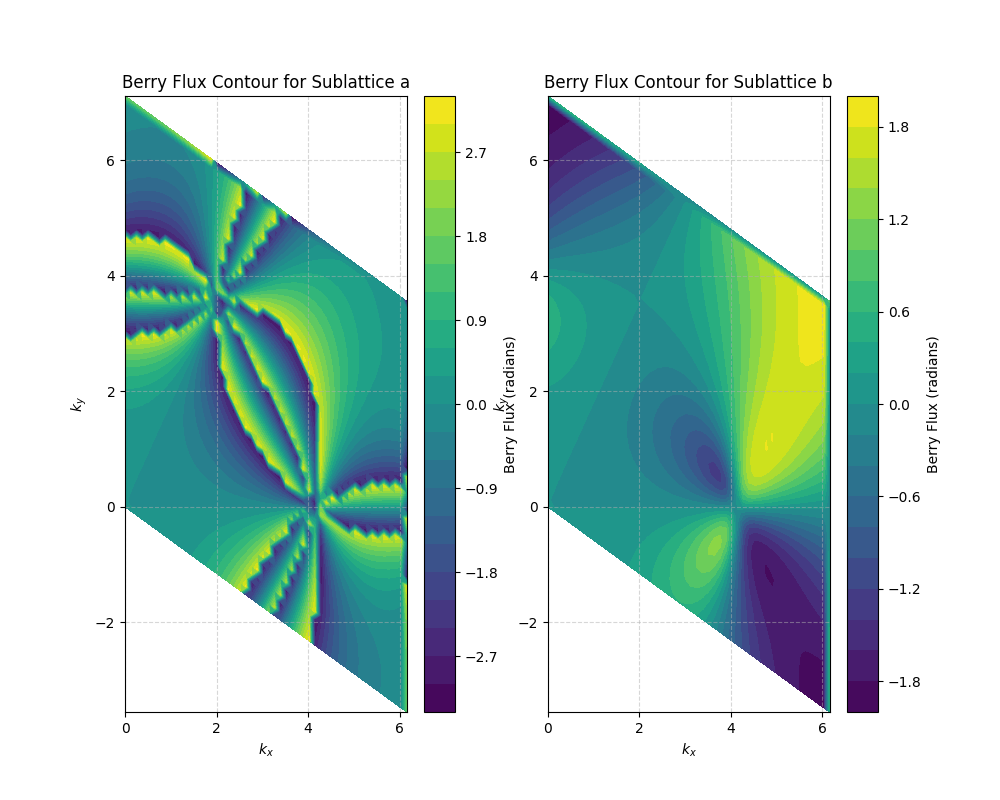
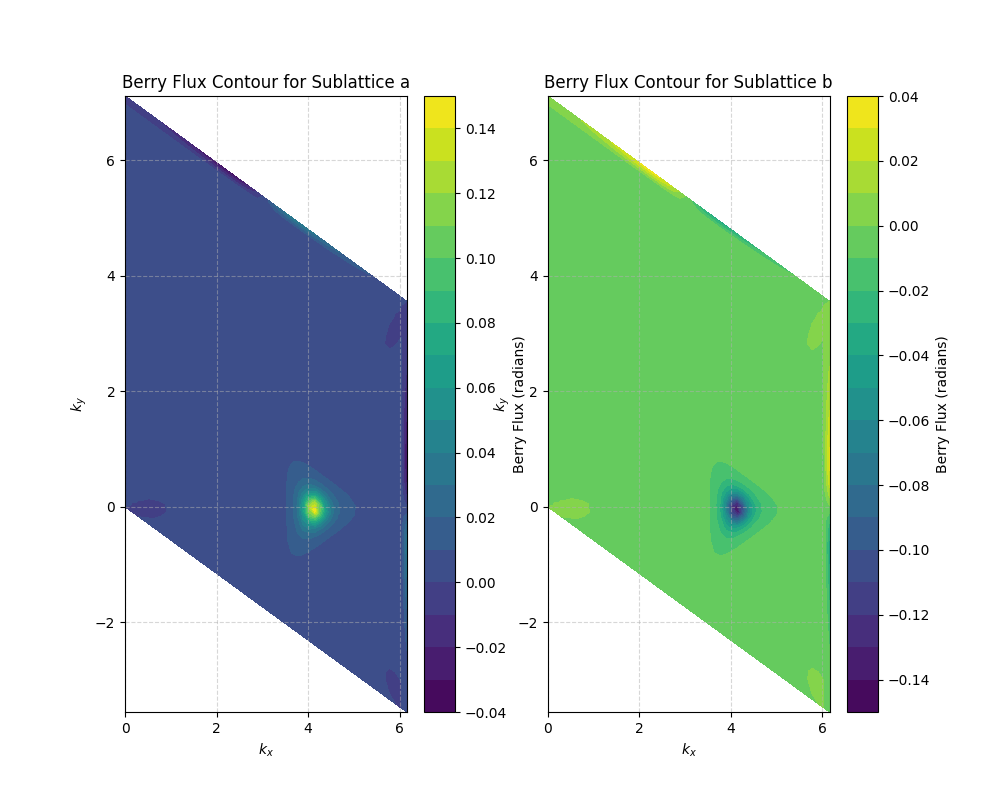
Started Edge Modes

diff --git a/lattice.py b/lattice.py
@@ -49,7 +49,10 @@ class Lattice():
 
         self.periodic = periodic
         if len(periodic) == 0:
-            self.periodic = False
+            if self.dims > 0:
+                self.periodic = [True for i in range(self.dims)]
+            else:
+                self.periodic = True
 
         self.matrix_dim = len(self.labels)
 
@@ -238,31 +241,41 @@ class Lattice():
         pos = []
         if self.dims > 1:
             for dim in range(self.dims):
-                pos.append((label[0][dim] + vector[dim] - 1) % self.Nshape[dim] + 1)
+                if self.periodic[dim] or label[0][dim] + vector[dim] <= self.Nshape[dim]:
+                    pos.append((label[0][dim] + vector[dim] - 1) % self.Nshape[dim] + 1)
         else:
-            pos = (label[0] + vector[0] - 1) % self.Nshape + 1
+            if self.periodic or label[0] + vector <= self.Nshape:
+                pos = (label[0] + vector[0] - 1) % self.Nshape + 1
 
         site = chr((ord(label[1]) - ord("a") + vector[-1]) % self.sites + ord("a"))
 
+        if len(pos) < self.dims: # No site at vector
+            return (-1,), False
+
         if self.dims > 1:
-            return (tuple(pos), site)
+            return (tuple(pos), site), True
         else:
-            return (pos, site)
+            return (pos, site), True
     
     def getMomentumNeighbor(self, mlabel, vector):
         mom = []
         if self.dims > 1:
             for dim in range(self.dims):
-                mom.append((mlabel[0][dim] + vector[dim]) % self.Nshape[dim])
+                if self.periodic[dim] or mlabel[0][dim] + vector[dim] < self.Nshape[dim]:
+                    mom.append((mlabel[0][dim] + vector[dim]) % self.Nshape[dim])
         else:
-            mom = (mlabel[0] + vector[0]) % self.Nshape
+            if self.periodic or mlabel[0] + vector < self.Nshape:
+                mom = (mlabel[0] + vector[0]) % self.Nshape
 
         site = chr((ord(mlabel[1]) - ord("a") + vector[-1]) % self.sites + ord("a"))
 
+        if len(mom) < self.dims: # No site at vector
+            return (-1,), False
+
         if self.dims > 1:
-            return (tuple(mom), site)
+            return (tuple(mom), site), True
         else:
-            return (mom, site)
+            return (mom, site), True
 
     def GetBounds(self):
         if self.dims > 1:
@@ -351,21 +364,27 @@ class Lattice():
                 for dist_site in range(len(self.site_coordination)): # Loop nearest to farthest sites asked for
                     vector_list = site_vector_list[dist_site] # Get list of vectors at that distance
                     for vector in vector_list: # Loop through those vectors
-                        label2 = self.getNeighbor(label1, vector) # Get label of site after moving vector
+                        label2, exists = self.getNeighbor(label1, vector) # Get label of site after moving vector
+                        if not exists:
+                            continue
                         j = self.LabelToIndex(label2)
                         
                         H[i, j] = self.site_coordination[dist_site]
             else:
                 vector_list = site_vector_list[0] # Get list of vectors at that distance
                 for vector in vector_list: # Loop through those vectors
-                    label2 = self.getNeighbor(label1, vector) # Get label of site after moving vector
+                    label2, exists = self.getNeighbor(label1, vector) # Get label of site after moving vector
+                    if not exists:
+                        continue
                     j = self.LabelToIndex(label2)
                     
                     H[i, j] = self.site_coordination
             
             # Special Hops
             for hop in self.special_hops:
-                label2 = self.getNeighbor(label1, hop[0]) # Get label of site after moving vector
+                label2, exists = self.getNeighbor(label1, hop[0]) # Get label of site after moving vector
+                if not exists:
+                    continue
                 j = self.LabelToIndex(label2)
                 
                 H[i, j] = hop[1]
@@ -373,7 +392,9 @@ class Lattice():
             # Special Site Hops
             if len(self.special_site_hops) > 0:
                 for hop in self.special_site_hops[current_site]:
-                    label2 = self.getNeighbor(label1, hop[0]) # Get label of site after moving vector
+                    label2, exists = self.getNeighbor(label1, hop[0]) # Get label of site after moving vector
+                    if not exists:
+                        continue
                     j = self.LabelToIndex(label2)
                     
                     H[i, j] = hop[1]
@@ -477,8 +498,6 @@ class Lattice():
             sorted_energy = np.sort(self.energies.ravel())
             return (sorted_energy[self.matrix_dim//2-1] + sorted_energy[self.matrix_dim//2])/2
 
-
-
     def calculateLabelBerryFlux(self, mlabel):
         total = 1
         phase = 0
@@ -486,7 +505,9 @@ class Lattice():
         mlabel1 = mlabel
         current_site = ord(mlabel1[1]) - ord("a")
         for i in range(len(vector_list)):
-            mlabel2 = self.getMomentumNeighbor(mlabel1, vector_list[i])
+            mlabel2, exists = self.getMomentumNeighbor(mlabel1, vector_list[i])
+            if not exists:
+                return 0
 
             #print(mlabel1, mlabel2)
             #arrow_list.append((mlabel1, mlabel2))
@@ -807,7 +828,9 @@ if save:
     plt.savefig("images/Haldane_EvM.png") 
 plt.show() """
 
-""" M_1 = 0.8
+""" save = True
+
+M_1 = 0.8
 M_2 = 1.2
 tp = 0.3
 phi = 0.7
@@ -818,8 +841,6 @@ special_hops_b = [((1, 0, 0), backward), ((-1, 1, 0), backward), ((0, -1, 0), ba
 special_site_hops = [special_hops_a,special_hops_b]
 haldane1 = Lattice((50,50), 2, [(1, 0), (1/2, np.sqrt(3)/2)], [(0,0), (0, 1/np.sqrt(3))], site_potential=[M_1, -M_1], special_site_hops=special_site_hops)
 haldane2 = Lattice((50,50), 2, [(1, 0), (1/2, np.sqrt(3)/2)], [(0,0), (0, 1/np.sqrt(3))], site_potential=[M_2, -M_2], special_site_hops=special_site_hops)
-
-save = True
 
 kx = haldane1.momentums[0]
 ky = haldane1.momentums[1]
@@ -867,14 +888,14 @@ for site in range(haldane2.sites):
     plt.grid(True, linestyle='--', alpha=0.5)
 
 if save:
-    plt.savefig("images/Berry_0_8_contour.png")
+    plt.savefig("images/Berry_1_2_contour.png")
 
 print("Chern M = 0.8:", haldane1.calculateChernNumber())
 print("Chern M = 1.2:", haldane2.calculateChernNumber())
 
 plt.show() """
 
-save = True
+""" save = True
 
 tp = 0.3
 phi = 0.7
@@ -902,7 +923,7 @@ plt.ylabel("Chern Number")
 
 if save:
     plt.savefig("images/Haldane_CvM.png") 
-plt.show()
+plt.show() """
 
 """ save = True
 
@@ -962,3 +983,40 @@ if save:
     plt.savefig("images\Haldane_arrows.png")
 
 plt.show() """
+
+""" save = True
+
+M_1 = 0.2
+M_2 = 2.0
+tp = 0.3
+phi = 0.7
+forward = -tp*np.exp(1j*phi)
+backward = -tp*np.exp(-1j*phi)
+special_hops_a = [((1, 0, 0), forward), ((-1, 1, 0), forward), ((0, -1, 0), forward), ((-1, 0, 0), backward), ((1, -1, 0), backward), ((0, 1, 0), backward)]
+special_hops_b = [((1, 0, 0), backward), ((-1, 1, 0), backward), ((0, -1, 0), backward), ((-1, 0, 0), forward), ((1, -1, 0), forward), ((0, 1, 0), forward)]
+special_site_hops = [special_hops_a,special_hops_b]
+haldane1 = Lattice((15,15), 2, [(1, 0), (1/2, np.sqrt(3)/2)], [(0,0), (0, 1/np.sqrt(3))], site_potential=[M_1, -M_1], special_site_hops=special_site_hops, periodic=[False, True])
+haldane2 = Lattice((15,15), 2, [(1, 0), (1/2, np.sqrt(3)/2)], [(0,0), (0, 1/np.sqrt(3))], site_potential=[M_2, -M_2], special_site_hops=special_site_hops, periodic=[False, True])
+
+print("Chern M = 0.2:", haldane1.calculateChernNumber())
+print("Chern M = 2.0:", haldane2.calculateChernNumber())
+
+plt.show()
+
+plt.scatter(haldane1.momentums[1], haldane1.energies[0])
+plt.scatter(haldane1.momentums[1], haldane1.energies[1])
+plt.xlabel("ky")
+plt.ylabel("E")
+plt.legend(["M = 0.2, Band 1", "M = 0.2, Band 2"])
+if save:
+    plt.savefig("images/Haldane_02_non_periodic.png")
+
+plt.show()
+
+plt.scatter(haldane2.momentums[1], haldane2.energies[0])
+plt.scatter(haldane2.momentums[1], haldane2.energies[1])
+plt.xlabel("ky")
+plt.ylabel("E")
+plt.legend(["M = 2.0, Band 1", "M = 2.0, Band 2"])
+if save:
+    plt.savefig("images/Haldane_20_non_periodic.png") """
